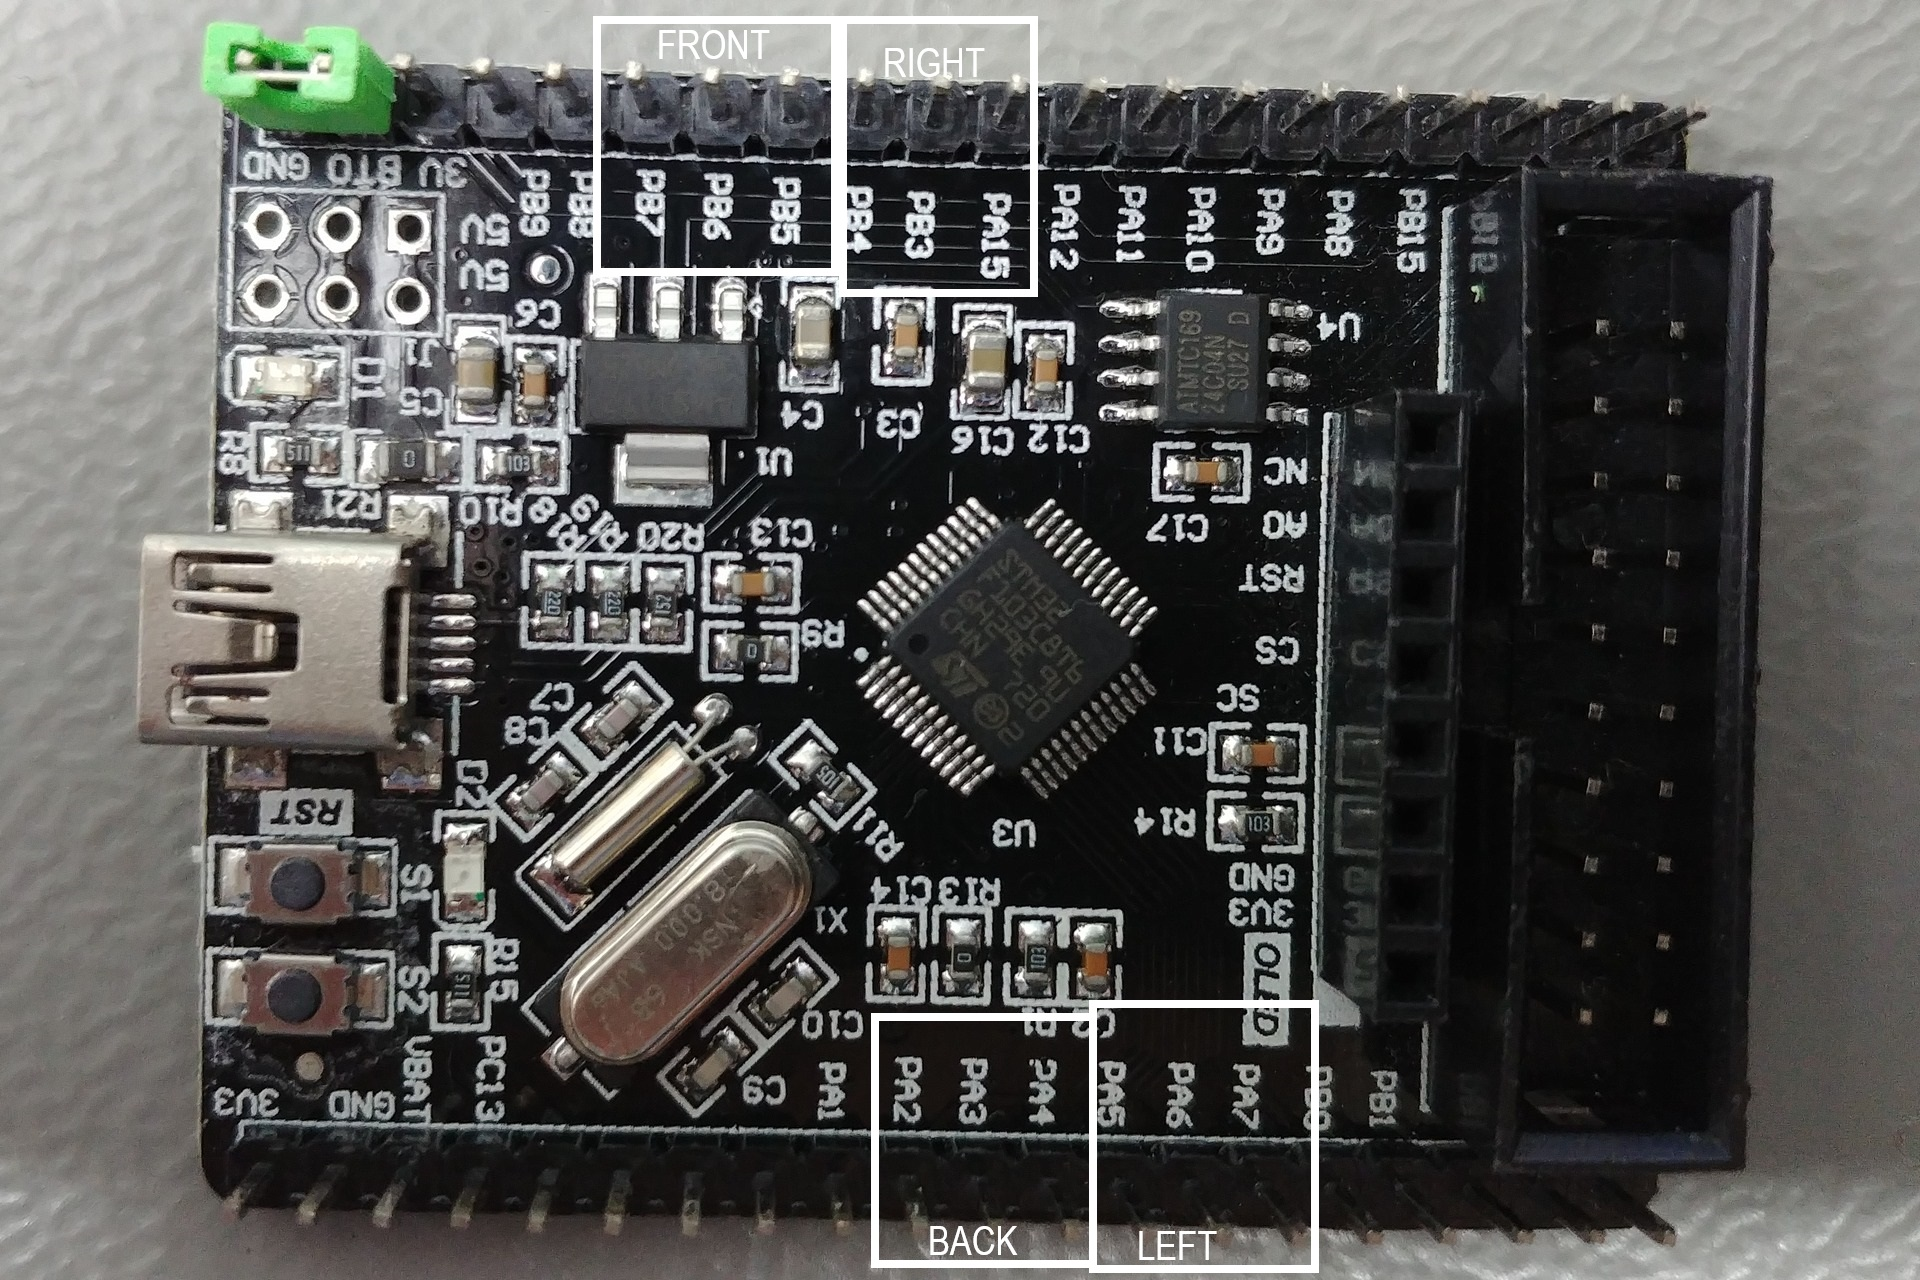
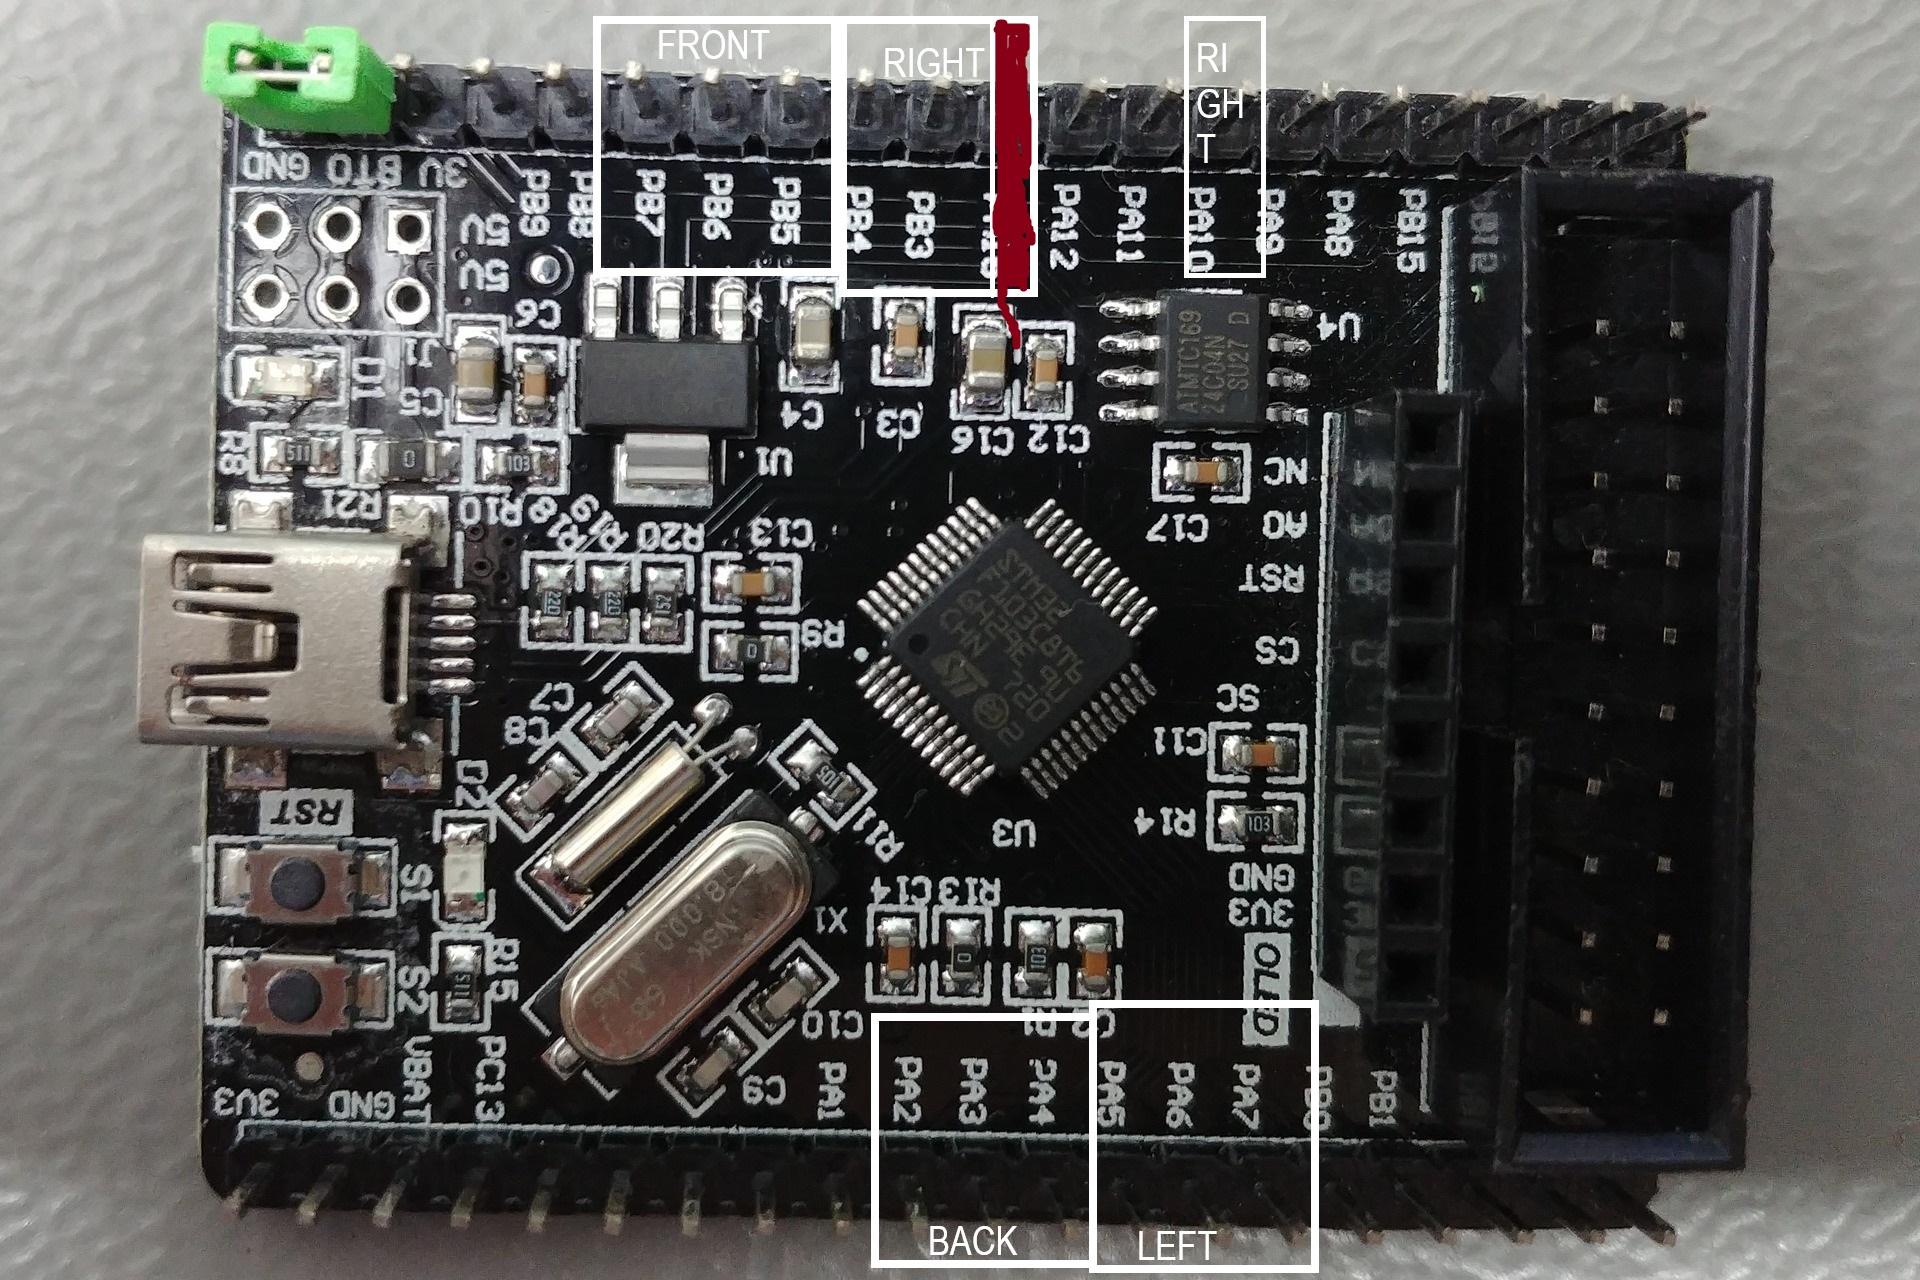
feat: finalized integrating array of servo motors

Changed region(s): [[0.5, 0.0, 0.5625, 0.2812], [0.5938, 0.0, 0.6562, 0.0938], [0.625, 0.1875, 0.6562, 0.2188]]

diff --git a/RubikSolver_STM32/Core/Src/main.c b/RubikSolver_STM32/Core/Src/main.c
@@ -119,55 +119,50 @@ int main(void)
   color_sensor_init();
 
   // Waiting user for select mode
-//  while (usb_received == 0);
-//  usb_received = 0;
-//  if (usb_buf[0] == 0)
-//  {
-//	  systemMode = MANUAL;
-//  }else
-//  {
-//	  systemMode = AUTO;
-//  }
+  while (usb_received == 0);
+  usb_received = 0;
+  if (usb_buf[0] == 0)
+  {
+	  systemMode = MANUAL;
+  }else
+  {
+	  systemMode = AUTO;
+  }
 
   while (1)
   {
-	  HAL_GPIO_TogglePin(LED_GPIO_Port, LED_Pin);
-	  HAL_Delay(100);
-	  test_servo();
-//	  continue;
-//	  if (systemMode == MANUAL)
-//	  {
-//		  switch (systemState)
-//		  {
-//		  case IDLE:
-//			  if (usb_received == 1)
-//			  {
-//				  if (data_equal(usb_buf, 11, "color_setup"))
-//				  {
-//					  systemState = SETUP;
-//					  usb_received = 0;
-//				  }else if (data_equal(usb_buf, 11, "rubik_solve"))
-//				  {
-//					  systemState = SOLVE;
-//					  usb_received = 0;
-//				  }
-//			  }
-//			  break;
-//		  case SETUP:
-//			  color_setup();
-//			  color_loaded = 1;
-//			  systemState = IDLE;
-//			  break;
-//		  case SOLVE:
-//			  rubik_solve();
-//			  systemState = IDLE;
-//			  break;
-//		  }
-//	  }else
-//	  {
-//		  HAL_GPIO_TogglePin(LED_GPIO_Port, LED_Pin);
-//		  HAL_Delay(100);
-//	  }
+	  if (systemMode == MANUAL)
+	  {
+		  switch (systemState)
+		  {
+		  case IDLE:
+			  if (usb_received == 1)
+			  {
+				  if (data_equal(usb_buf, 11, "color_setup"))
+				  {
+					  systemState = SETUP;
+					  usb_received = 0;
+				  }else if (data_equal(usb_buf, 11, "rubik_solve"))
+				  {
+					  systemState = SOLVE;
+					  usb_received = 0;
+				  }
+			  }
+			  break;
+		  case SETUP:
+			  color_setup();
+			  color_loaded = 1;
+			  systemState = IDLE;
+			  break;
+		  case SOLVE:
+			  rubik_solve();
+			  systemState = IDLE;
+			  break;
+		  }
+	  }else
+	  {
+		  test_servo();
+	  }
     /* USER CODE END WHILE */
 
     /* USER CODE BEGIN 3 */
@@ -276,7 +271,7 @@ static void MX_TIM2_Init(void)
   htim2.Instance = TIM2;
   htim2.Init.Prescaler = 5;
   htim2.Init.CounterMode = TIM_COUNTERMODE_UP;
-  htim2.Init.Period = 149;
+  htim2.Init.Period = 1599;
   htim2.Init.ClockDivision = TIM_CLOCKDIVISION_DIV1;
   htim2.Init.AutoReloadPreload = TIM_AUTORELOAD_PRELOAD_DISABLE;
   if (HAL_TIM_Base_Init(&htim2) != HAL_OK)
@@ -322,7 +317,7 @@ static void MX_GPIO_Init(void)
 
   /*Configure GPIO pin Output Level */
   HAL_GPIO_WritePin(GPIOA, BACK_ARM_Pin|BACK_HAND_Pin|BACK_GRIP_Pin|LEFT_ARM_Pin
-                          |LEFT_HAND_Pin|LEFT_GRIP_Pin, GPIO_PIN_RESET);
+                          |LEFT_HAND_Pin|LEFT_GRIP_Pin|RIGHT_GRIP_Pin, GPIO_PIN_RESET);
 
   /*Configure GPIO pin Output Level */
   HAL_GPIO_WritePin(GPIOB, RIGHT_HAND_Pin|RIGHT_ARM_Pin|FRONT_GRIP_Pin|FRONT_HAND_Pin
@@ -336,19 +331,13 @@ static void MX_GPIO_Init(void)
   HAL_GPIO_Init(LED_GPIO_Port, &GPIO_InitStruct);
 
   /*Configure GPIO pins : BACK_ARM_Pin BACK_HAND_Pin BACK_GRIP_Pin LEFT_ARM_Pin
-                           LEFT_HAND_Pin LEFT_GRIP_Pin */
+                           LEFT_HAND_Pin LEFT_GRIP_Pin RIGHT_GRIP_Pin */
   GPIO_InitStruct.Pin = BACK_ARM_Pin|BACK_HAND_Pin|BACK_GRIP_Pin|LEFT_ARM_Pin
-                          |LEFT_HAND_Pin|LEFT_GRIP_Pin;
+                          |LEFT_HAND_Pin|LEFT_GRIP_Pin|RIGHT_GRIP_Pin;
   GPIO_InitStruct.Mode = GPIO_MODE_OUTPUT_PP;
   GPIO_InitStruct.Pull = GPIO_NOPULL;
   GPIO_InitStruct.Speed = GPIO_SPEED_FREQ_LOW;
   HAL_GPIO_Init(GPIOA, &GPIO_InitStruct);
-
-  /*Configure GPIO pin : RIGHT_GRIP_Pin */
-  GPIO_InitStruct.Pin = RIGHT_GRIP_Pin;
-  GPIO_InitStruct.Mode = GPIO_MODE_IT_RISING;
-  GPIO_InitStruct.Pull = GPIO_NOPULL;
-  HAL_GPIO_Init(RIGHT_GRIP_GPIO_Port, &GPIO_InitStruct);
 
   /*Configure GPIO pins : RIGHT_HAND_Pin RIGHT_ARM_Pin FRONT_GRIP_Pin FRONT_HAND_Pin
                            FRONT_ARM_Pin */

diff --git a/RubikSolver_STM32/Core/Src/servo.c b/RubikSolver_STM32/Core/Src/servo.c
@@ -7,10 +7,10 @@
 #include "servo.h"
 #include "usbd_cdc_if.h"
 
-const int ARM_OFFSET[4] = {-5, 0, 0, 0};
-const int HAND_OFFSET[4] = {-8, 0, 0, 0};
-const int GRIP_OFFSET[4] = {2, 2, 0, 0};
-const int ARM_RATIO[4] = {1, 2, 1, 1};
+const int ARM_OFFSET[4] = {0, 0, 0, 0};
+const int HAND_OFFSET[4] = {0, 0, 0, 0};
+const int GRIP_OFFSET[4] = {0, 0, 0, 0};
+const int ARM_RATIO[4] = {1, 1, 1, 1};
 const int HAND_RATIO[4] = {1, 1.5, 1, 1};
 const int GRIP_RATIO[4] = {1, 1, 1, 1};
 
@@ -54,7 +54,7 @@ void arm_rotate(int index, float degree)
 
 void hand_rotate(int index, float degree)
 {
-	rotate(&arm_on_time[index], degree, HAND_OFFSET[index], HAND_RATIO[index]);
+	rotate(&hand_on_time[index], degree, HAND_OFFSET[index], HAND_RATIO[index]);
 }
 
 void grip_rotate(int index, float degree)
@@ -77,19 +77,40 @@ void set_arm_dist(int index, float dist)
 
 void test_servo()
 {
-	arm_rotate(1, 0);
+//	arm_rotate(1, 90);
+//	return;
+//	for (int i = 0; i < 4; ++i)
+//	{
+//		arm_rotate(i, 0);
+//		hand_rotate(i, 0);
+//		grip_rotate(i, 0);
+//	}
+	hand_rotate(1, 90);
 	HAL_Delay(1000);
-	HAL_GPIO_TogglePin(LED_GPIO_Port, LED_Pin);
-//	arm_rotate(1, 45);
-//	HAL_Delay(1000);
-//	HAL_GPIO_TogglePin(LED_GPIO_Port, LED_Pin);
-//	front_hand_rotate(90);
-//	HAL_Delay(2000);
-//	HAL_GPIO_TogglePin(LED_GPIO_Port, LED_Pin);
-//	front_hand_rotate(0);
-//	HAL_Delay(2000);
-//	HAL_GPIO_TogglePin(LED_GPIO_Port, LED_Pin);
+
+	arm_rotate(1, 0);
+	HAL_Delay(5000);
+
+	hand_rotate(1, 0);
+	HAL_Delay(5000);
+
+//	for (int i = 0; i < 4; ++i)
+//	{
+//		arm_rotate(i, 90);
+//		hand_rotate(i, 90);
+//		grip_rotate(i, 90);
+//	}
+
 	arm_rotate(1, 90);
 	HAL_Delay(1000);
-	HAL_GPIO_TogglePin(LED_GPIO_Port, LED_Pin);
+
+	hand_rotate(1, 0);
+	HAL_Delay(1000);
+//	for (int i = 0; i < 4; ++i)
+//	{
+//		arm_rotate(i, 180);
+//		hand_rotate(i, 180);
+//		grip_rotate(i, 180);
+//	}
+//	HAL_Delay(1000);
 }

diff --git a/RubikSolver_STM32/Core/Src/servo_pwm.c b/RubikSolver_STM32/Core/Src/servo_pwm.c
@@ -45,15 +45,15 @@ void servos_pwm_timer_run()
 			arm_port[i], arm_pin[i], arm_on_time[i]);
 	}
 
-//	for (int i = 0; i < 4; ++i)
-//	{
-//		servo_timer_run(&hand_counter[i], &hand_status[i],
-//			hand_port[i], hand_pin[i], hand_on_time[i]);
-//	}
-//
-//	for (int i = 0; i < 4; ++i)
-//	{
-//		servo_timer_run(&hand_counter[i], &hand_status[i],
-//			hand_port[i], hand_pin[i], hand_on_time[i]);
-//	}
+	for (int i = 0; i < 4; ++i)
+	{
+		servo_timer_run(&hand_counter[i], &hand_status[i],
+			hand_port[i], hand_pin[i], hand_on_time[i]);
+	}
+
+	for (int i = 0; i < 4; ++i)
+	{
+		servo_timer_run(&grip_counter[i], &grip_status[i],
+			grip_port[i], grip_pin[i], grip_on_time[i]);
+	}
 }

diff --git a/RubikSolver_STM32/Core/Inc/main.h b/RubikSolver_STM32/Core/Inc/main.h
@@ -71,7 +71,7 @@ void Error_Handler(void);
 #define LEFT_HAND_GPIO_Port GPIOA
 #define LEFT_GRIP_Pin GPIO_PIN_7
 #define LEFT_GRIP_GPIO_Port GPIOA
-#define RIGHT_GRIP_Pin GPIO_PIN_15
+#define RIGHT_GRIP_Pin GPIO_PIN_10
 #define RIGHT_GRIP_GPIO_Port GPIOA
 #define RIGHT_HAND_Pin GPIO_PIN_3
 #define RIGHT_HAND_GPIO_Port GPIOB

diff --git a/RubikSolver_STM32/Core/Inc/servo.h b/RubikSolver_STM32/Core/Inc/servo.h
@@ -12,9 +12,9 @@
 
 #define PI acos(-1)
 
-#define ZERO_DEGREE_ON_TIME 30
-#define FULL_DEGREE_ON_TIME 135
-#define SERVO_CYCLE 1000
+#define ZERO_DEGREE_ON_TIME 3
+#define FULL_DEGREE_ON_TIME 13.5
+#define SERVO_CYCLE 100
 
 #define GRIP_L1 30
 #define GRIP_L2 15
